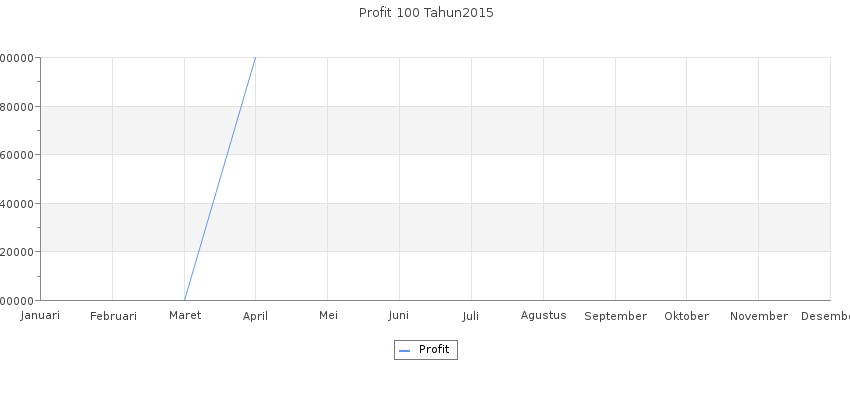
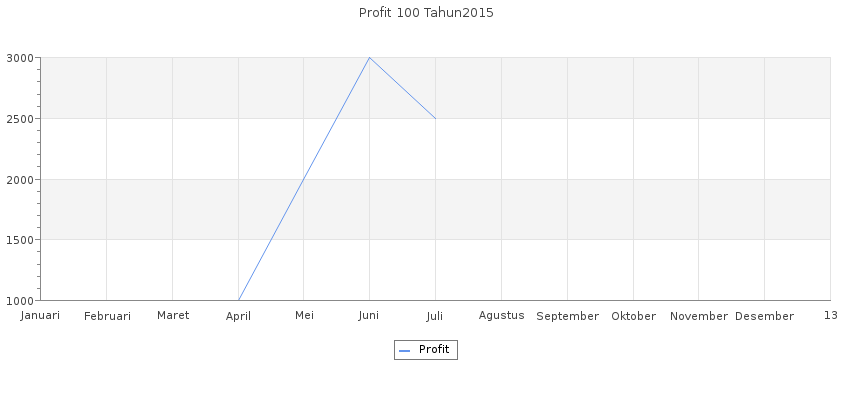
Revisi algoritma grafik

diff --git a/app/Http/Controllers/GraphController.php b/app/Http/Controllers/GraphController.php
@@ -66,10 +66,12 @@ class GraphController extends Controller {
 		$i;
 		$jumlah_data = 0;
 		$tahun = Input::get('tahun');
-		Session::put('nomor_registrasi', 123123);
-		$nomor_registrasi = Session::get('nomor_registrasi');
+		//Session::put('nomor_registrasi', 123123);
+		$nomor_registrasi = Input::get('no_registrasi');
+		//Session::get('nomor_registrasi');
 		$profit = array(0,0,0,0,0,0,0,0,0,0,0,0);
-		$data = DB::table('ukmin_profit')->orderBy('bulan','asc')->select('profit','bulan')->where('no_registrasi','=',$nomor_registrasi)->get();
+		$data = DB::table('ukmin_profit')->orderBy('bulan','asc')->select('profit','bulan')->where('no_registrasi',$nomor_registrasi)->get();
+		//print_r($data);
 		$data = json_decode(json_encode($data),true);
 		
 		for($i =0;$i<count($data);$i++){
@@ -83,7 +85,7 @@ class GraphController extends Controller {
 				$profit[$i] = NULL;
 			}
 		}
-		
+		print_r($profit);
 		if($jumlah_data >0){
 			/* Pembuatan Grafik */
 			$graph = new \Graph(850,400);
@@ -133,29 +135,32 @@ class GraphController extends Controller {
         // $pdf = \PDF::loadView('graphTemplate', $parameter)->save(public_path()."Hello.pdf"); //save to file
         // return $pdf->stream("Hello.pdf"); //stream
 		
-		
+		$profit = array(0,0,0,0,0,0,0,0,0,0,0,0,0);
 		/* Inisiasi Nilai */
+		$user = Input::get('user');
 		$i;
 		$jumlah_data = 0;
-		$user = Input::get('user');
 		$tahun = Input::get('tahun');
 		//Session::put('nomor_registrasi', 123123);
-		//$nomor_registrasi = Session::get('nomor_registrasi');
-		$profit = array(0,0,0,0,0,0,0,0,0,0,0,0);
+		$nomor_registrasi = Input::get('no_registrasi');
+		//Session::get('nomor_registrasi');
 		$data = DB::table('ukmin_profit')->orderBy('bulan','asc')->select('profit','bulan')->where('no_registrasi','=',$user)->get();
 		$data = json_decode(json_encode($data),true);
-		
 		for($i =0;$i<count($data);$i++){
+			// if(preg_match("/$tahun-0(.*)-/",$data[$i]['bulan'],$result)){
+				// $profit[$result['1']-1] += $data[$i]['profit'];
+				// $jumlah_data++;
+			// }
 			if(preg_match("/$tahun-0(.*)-/",$data[$i]['bulan'],$result)){
-				$profit[$result['1']-1] += $data[$i]['profit'];
-				$jumlah_data++;
+				 $profit[$result['1']-1] += $data[$i]['profit'];
+				 $jumlah_data++;
 			}
 		}
-		for($i =0;$i<count($profit);$i++){
-			if($profit[$i] == 0){
-				$profit[$i] = NULL;
-			}
-		}
+		 for($i =0;$i<count($profit);$i++){
+			 if($profit[$i] == 0){
+				 $profit[$i] = NULL;
+			 }
+		 }
 		
 		if($jumlah_data >0){
 			/* Pembuatan Grafik */

diff --git a/resources/views/profitGrowth.blade.php b/resources/views/profitGrowth.blade.php
@@ -12,8 +12,13 @@
 				<?php
 					echo Form::open(array('url' => '/create_graph'));
 						echo Form::selectRange('tahun', 2014, 2016);
+						echo Form::text('no_registrasi',Session::get('no_registrasi'));
+
 						echo Form::submit('Generate Grafik');
 					echo Form::close();
+				?>
+				<?php
+					//echo Session::get('no_registrasi');
 				?>
 				<hr/>
 				<h3> Input Profit Bulanan </h3>
